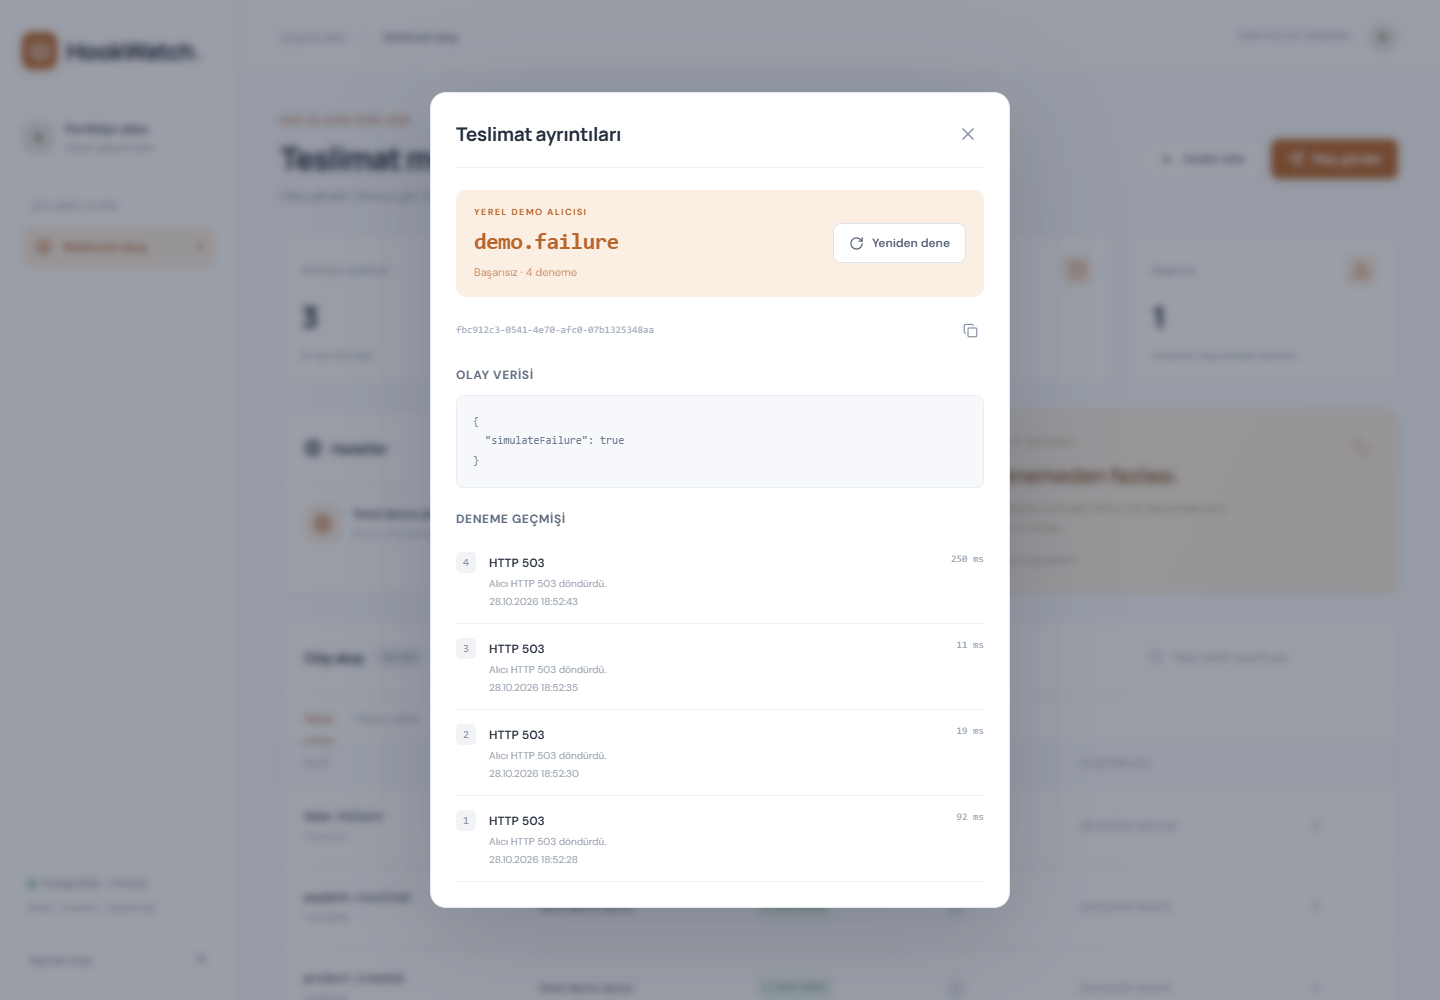
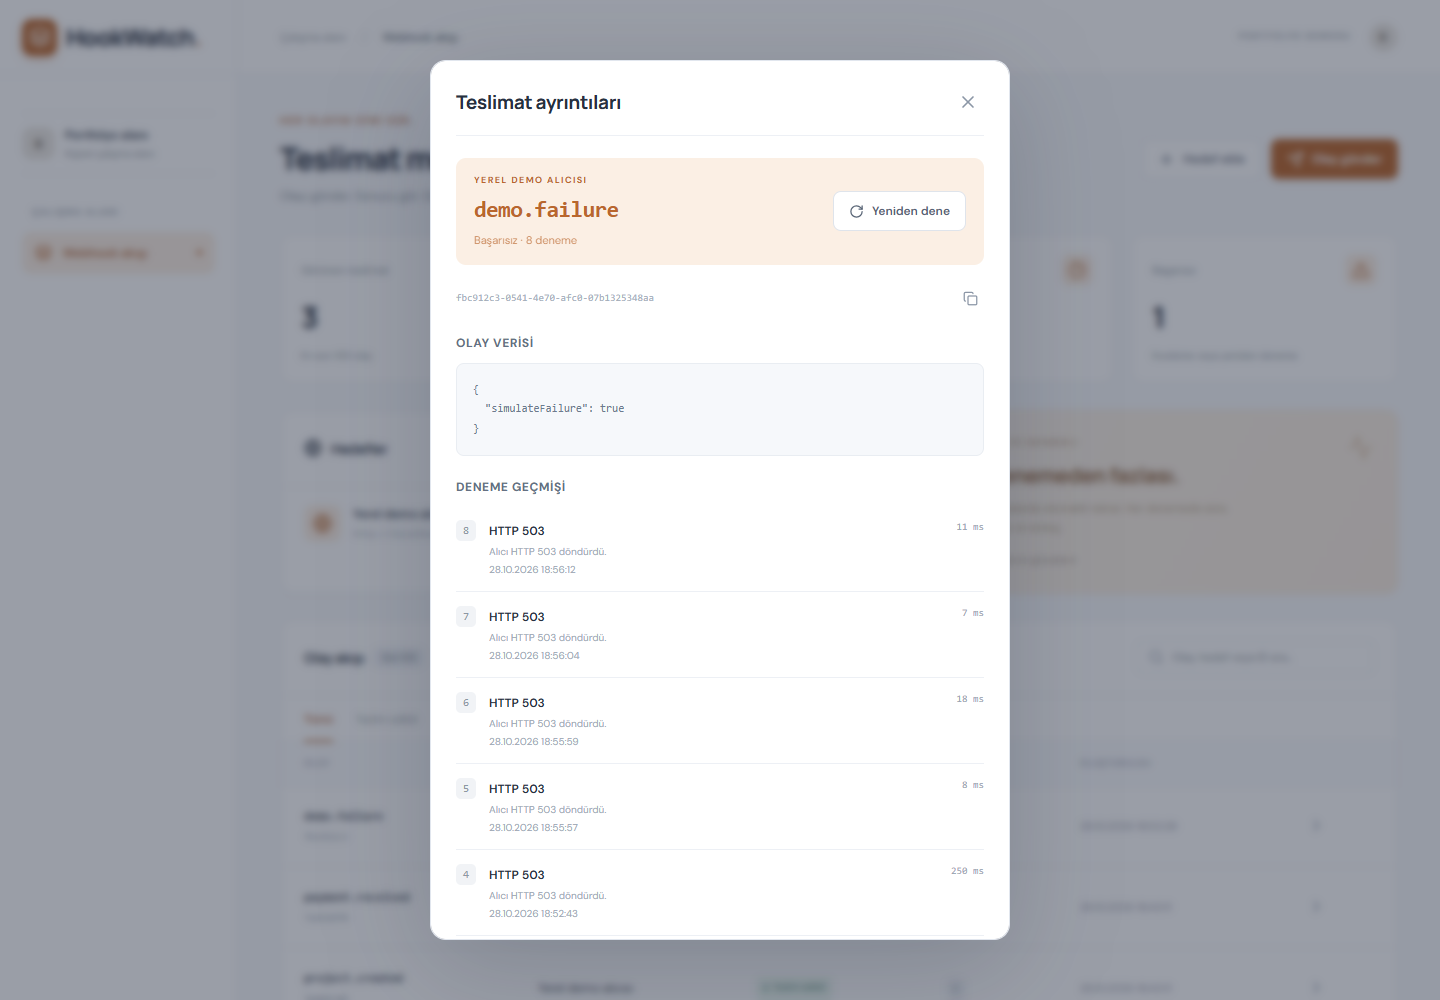
Align sidebar with page flow and refresh screenshots

Changed region(s): [[0.2812, 0.062, 0.7188, 0.961], [0.0, 0.0, 0.1562, 0.093]]

diff --git a/frontend/src/styles.css b/frontend/src/styles.css
@@ -120,21 +120,29 @@ input::placeholder {
   color: #8c94a1;
 }
 .app-shell {
-  display: flex;
+  --sidebar-width: 238px;
+  --sidebar-padding: 22px;
+  display: grid;
+  grid-template-columns: var(--sidebar-width) minmax(0, 1fr);
+  align-items: stretch;
   min-height: 100vh;
 }
 .sidebar {
-  position: fixed;
-  width: 238px;
-  inset: 0 auto 0 0;
+  min-width: 0;
   background: #fff;
   border-right: 1px solid #e8ebf0;
-  padding: 32px 22px;
+  padding: 0 var(--sidebar-padding) 24px;
   display: flex;
   flex-direction: column;
   z-index: 10;
 }
 .brand {
+  align-self: stretch;
+  flex-shrink: 0;
+  min-height: 75px;
+  margin-inline: calc(-1 * var(--sidebar-padding));
+  padding-inline: var(--sidebar-padding);
+  border-bottom: 1px solid #e7ebf0;
   font-size: 24px;
   font-weight: 800;
   letter-spacing: -1px;
@@ -254,15 +262,14 @@ input::placeholder {
   box-shadow: 0 0 0 3px #e9f5ef;
 }
 .main-shell {
-  margin-left: 238px;
   min-width: 0;
-  width: calc(100% - 238px);
+  width: 100%;
 }
 .topbar {
   height: 75px;
   padding: 0 42px;
   border-bottom: 1px solid #e7ebf0;
-  background: #ffffffb3;
+  background: #fff;
   display: flex;
   align-items: center;
   justify-content: space-between;
@@ -1238,13 +1245,9 @@ dialog .notice {
   }
 }
 @media (max-width: 1200px) {
-  .sidebar {
-    width: 200px;
-    padding: 29px 17px;
-  }
-  .main-shell {
-    margin-left: 200px;
-    width: calc(100% - 200px);
+  .app-shell {
+    --sidebar-width: 200px;
+    --sidebar-padding: 17px;
   }
   main {
     padding: 30px 25px;
@@ -1287,12 +1290,16 @@ dialog .notice {
   }
 }
 @media (max-width: 900px) {
+  .app-shell {
+    --sidebar-width: 74px;
+    --sidebar-padding: 10px;
+  }
   .sidebar {
-    width: 74px;
     align-items: center;
-    padding: 24px 10px;
   }
   .brand {
+    min-height: 60px;
+    justify-content: center;
     font-size: 0;
     gap: 0;
   }
@@ -1314,10 +1321,6 @@ dialog .notice {
   }
   .nav-dot {
     display: none;
-  }
-  .main-shell {
-    margin-left: 74px;
-    width: calc(100% - 74px);
   }
   .stats {
     grid-template-columns: repeat(2, minmax(0, 1fr));
@@ -1370,6 +1373,11 @@ dialog .notice {
     border-bottom: 1px solid #e5e9ef;
   }
   .brand {
+    min-height: 0;
+    margin-inline: 0;
+    padding-inline: 0;
+    border-bottom: 0;
+    justify-content: flex-start;
     font-size: 21px;
     gap: 8px;
   }
